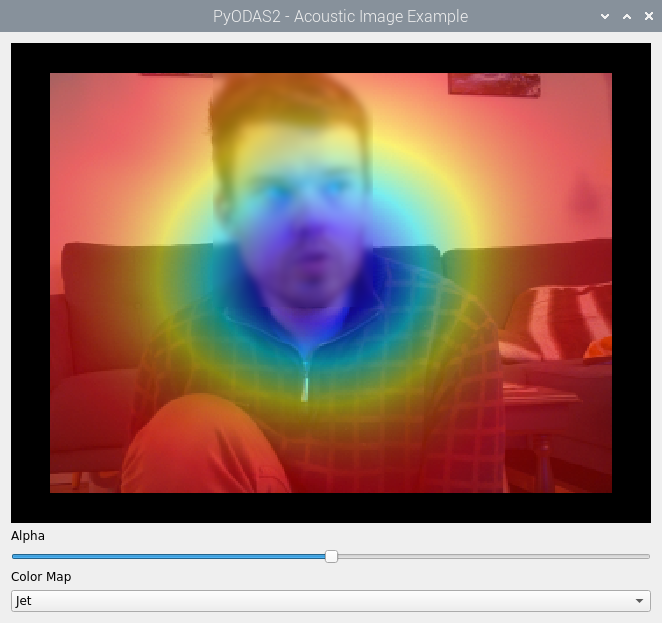
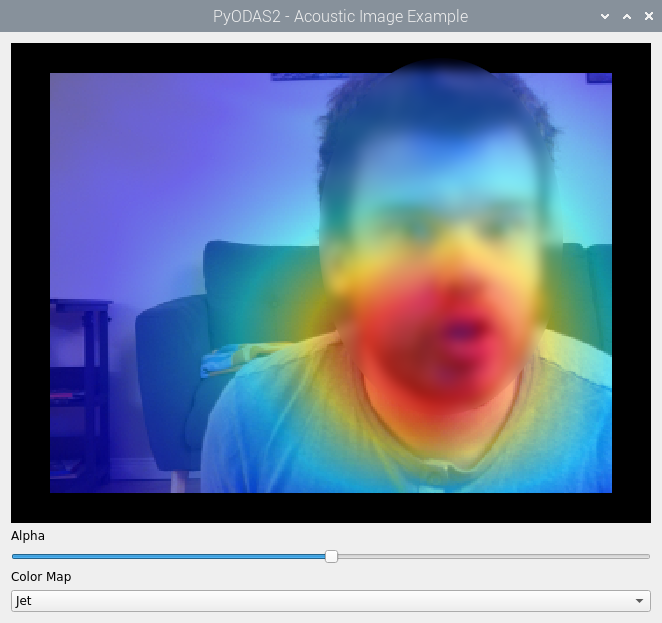
Update acoustic image.

diff --git a/README.md b/README.md
@@ -2,7 +2,7 @@
 
 # PyODAS2: Python Open embeddeD Audition System 2
 
-![example workflow](https://github.com/mamaheux/pyodas2/actions/workflows/release.yml/badge.svg)
+![release_workflow](https://github.com/mamaheux/pyodas2/actions/workflows/release.yml/badge.svg)
 
 **PyODAS2** is an advanced Python library designed for embedded audio processing applications. This package contains
 Python bindings for [ODAS2](https://github.com/FrancoisGrondin/odas2). Its primary focus is to enable developers and 
@@ -35,9 +35,13 @@ constrained environments.
 PyODAS2 uses advanced algorithms to detect and determine the spatial position of sound sources. Whether you’re working
 on a robot navigating through noisy environments or designing a surveillance system, this feature is critical.
 
+![SSL](docs/_static/tutorials/live/ssl.png)
+
 ### 2. **Sound Source Tracking**
 The library supports real-time tracking of moving sound sources. It ensures robust and continuous monitoring, even in 
 dynamic environments.
+
+![SST](docs/_static/tutorials/live/sst.png)
 
 ### 3. **Sound Source Separation**
 PyODAS2 includes tools to isolate individual sound sources from complex audio mixtures, enabling clean signal extraction
@@ -46,6 +50,8 @@ and detailed analysis.
 ### 4. **Acoustic Imaging**
 Generate visual representations of sound fields, providing insights into sound distribution and directionality within an
 environment.
+
+![Acoustic Imaging](docs/_static/tutorials/live/acoustic_image.png)
 
 ### 5. **Embeddability**
 Built with embedded systems in mind, PyODAS2 is lightweight and efficient, making it suitable for resource-constrained 
@@ -69,7 +75,7 @@ To start using PyODAS2, you can execute the following command to install PyODAS2
 pip install pyodas2
 ```
 
-If you want to use the class in the visualization package, PyODAS2 must be installed with the visualization optional
+If you want to use the classes of the visualization package, PyODAS2 must be installed with the visualization optional
 dependencies. They contain PySide6 which has a LGPL licence.
 ```bash
 pip install pyodas2[visualization]
